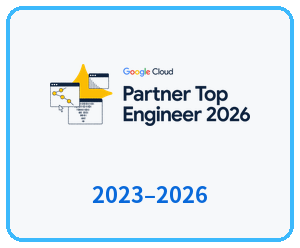
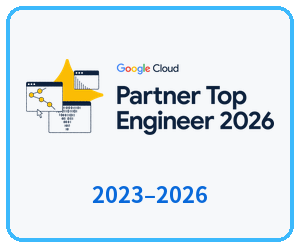
受賞の年行とPTEロゴを直す

Changed region(s): [[0.06, 0.2258, 0.93, 0.5645], [0.39, 0.254, 0.6, 0.3105]]

diff --git a/scripts/generate-lower-cards.py b/scripts/generate-lower-cards.py
@@ -51,7 +51,8 @@ LOGO_MAX_W = 200
 LOGO_MAX_H_WIDE = 80
 LOGO_MAX_H_SQUARE = 96
 LOGO_TOP = 32
-PTE_LOGO_BOTTOM = 158
+PTE_LOGO_BOTTOM = 162
+PTE_LOGO_MAX_W = 248
 NAME_Y_ONE = 135
 NAME_Y_TWO = (122, 148)
 YEAR_Y = 186
@@ -246,6 +247,7 @@ def write_plaque_png(
     theme: Theme,
     *,
     logo_max_h: int,
+    logo_max_w: int = LOGO_MAX_W,
     logo_top: int = LOGO_TOP,
     logo_bottom: int | None = None,
 ) -> None:
@@ -261,7 +263,7 @@ def write_plaque_png(
         else:
             logo_bottom = NAME_Y_TWO[0] - 6
     max_h = min(logo_max_h, max(1, logo_bottom - logo_top))
-    fitted = fit_contain(logo, LOGO_MAX_W, max_h)
+    fitted = fit_contain(logo, logo_max_w, max_h)
     band_y = logo_top + (logo_bottom - logo_top - fitted.height) // 2
     paste_centered(img, fitted, PLAQUE_W // 2, band_y)
     name_font = ImageFont.truetype(CJK_FONT, NAME_SIZE, index=CJK_INDEX)
@@ -331,6 +333,7 @@ def write_pte(theme: Theme) -> None:
         "2023–2026",
         theme,
         logo_max_h=PTE_LOGO_BOTTOM - LOGO_TOP,
+        logo_max_w=PTE_LOGO_MAX_W,
         logo_top=LOGO_TOP,
         logo_bottom=PTE_LOGO_BOTTOM,
     )

diff --git a/README.md b/README.md
@@ -46,9 +46,9 @@
 <a href="https://aws.amazon.com/jp/blogs/psa/2023-japan-aws-jr-champions/"><picture><source media="(prefers-color-scheme: dark)" srcset="./public/images/awards/aws-jr-champion-2023.png" /><source media="(prefers-color-scheme: light)" srcset="./public/images/awards/aws-jr-champion-2023-light.png" /><img src="./public/images/awards/aws-jr-champion-2023-light.png" width="160" alt="2023 Japan AWS Jr. Champion" /></picture></a>
 </div>
 <p align="center">
-Community Builder： Cloud Operations · <a href="https://aws.amazon.com/jp/developer/community/community-builders/community-builders-directory/?cb-cards.q=kento%2Bkimura">2024～現在</a><br />
-All Certifications Engineer： <a href="https://aws.amazon.com/jp/blogs/psa/2022-apn-all-aws-certifications-engineers/">2022</a>&nbsp;·&nbsp;<a href="https://aws.amazon.com/jp/blogs/psa/2023-japan-aws-all-certifications-engineers/">2023</a>&nbsp;·&nbsp;<a href="https://aws.amazon.com/jp/blogs/psa/2024-japan-aws-all-certifications-engineers/">2024</a>&nbsp;·&nbsp;<a href="https://aws.amazon.com/jp/blogs/psa/2025-japan-all-aws-certifications-engineers/">2025</a><br />
-Jr. Champion： <a href="https://aws.amazon.com/jp/blogs/psa/2023-japan-aws-jr-champions/">2023</a>
+Community Builder（Cloud Operations）：<a href="https://aws.amazon.com/jp/developer/community/community-builders/community-builders-directory/?cb-cards.q=kento%2Bkimura">2024～現在</a><br />
+All Certifications Engineer：<a href="https://aws.amazon.com/jp/blogs/psa/2022-apn-all-aws-certifications-engineers/">2022</a>&nbsp;·&nbsp;<a href="https://aws.amazon.com/jp/blogs/psa/2023-japan-aws-all-certifications-engineers/">2023</a>&nbsp;·&nbsp;<a href="https://aws.amazon.com/jp/blogs/psa/2024-japan-aws-all-certifications-engineers/">2024</a>&nbsp;·&nbsp;<a href="https://aws.amazon.com/jp/blogs/psa/2025-japan-all-aws-certifications-engineers/">2025</a><br />
+Jr. Champion：<a href="https://aws.amazon.com/jp/blogs/psa/2023-japan-aws-jr-champions/">2023</a>
 </p>
 
 <h3 align="center">Google Cloud</h3>
@@ -58,9 +58,9 @@ Jr. Champion： <a href="https://aws.amazon.com/jp/blogs/psa/2023-japan-aws-jr-c
 <picture><source media="(prefers-color-scheme: dark)" srcset="./public/images/awards/jaguer.png" /><source media="(prefers-color-scheme: light)" srcset="./public/images/awards/jaguer-light.png" /><img src="./public/images/awards/jaguer-light.png" width="160" alt="Jagu'e'r Award, 2023–2025" /></picture>
 </div>
 <p align="center">
-Partner Top Engineer： <a href="https://cloud.google.com/blog/ja/topics/partners/partner-top-engineer-2023-award-winners?hl=ja">2023</a>&nbsp;·&nbsp;<a href="https://cloud.google.com/blog/ja/topics/partners/partner-top-engineer-2024-award-winners?hl=ja">2024</a>&nbsp;·&nbsp;<a href="https://cloud.google.com/blog/ja/topics/partners/partner-top-engineer-2025-award-winners?hl=ja">2025</a>（Build / General） · <a href="https://cloud.google.com/blog/ja/topics/partners/announcing-the-winners-of-the-google-cloud-partner-top-engineer-2026-award-program?hl=ja">2026</a>（Serverless）<br />
-All Certification Holders： <a href="https://cloud.google.com/blog/ja/topics/partners/google-cloud-partner-all-certification-holders-2025?hl=ja">2025</a><br />
-Jagu'e'r Award： 2023 Excellent&nbsp;·&nbsp;2024 Excellent&nbsp;·&nbsp;2025 Grand Prize
+Partner Top Engineer：<a href="https://cloud.google.com/blog/ja/topics/partners/partner-top-engineer-2023-award-winners?hl=ja">2023</a>&nbsp;·&nbsp;<a href="https://cloud.google.com/blog/ja/topics/partners/partner-top-engineer-2024-award-winners?hl=ja">2024</a>&nbsp;·&nbsp;<a href="https://cloud.google.com/blog/ja/topics/partners/partner-top-engineer-2025-award-winners?hl=ja">2025</a>（Build / General）·<a href="https://cloud.google.com/blog/ja/topics/partners/announcing-the-winners-of-the-google-cloud-partner-top-engineer-2026-award-program?hl=ja">2026</a>（Serverless）<br />
+All Certification Holders：<a href="https://cloud.google.com/blog/ja/topics/partners/google-cloud-partner-all-certification-holders-2025?hl=ja">2025</a><br />
+Jagu'e'r Award：2023&#8288;·&#8288;2024&#8288;（Excellent）&#8288;·&#8288;2025&#8288;（Grand&nbsp;Prize）
 </p>
 
 ## 🛠 Tech stack
